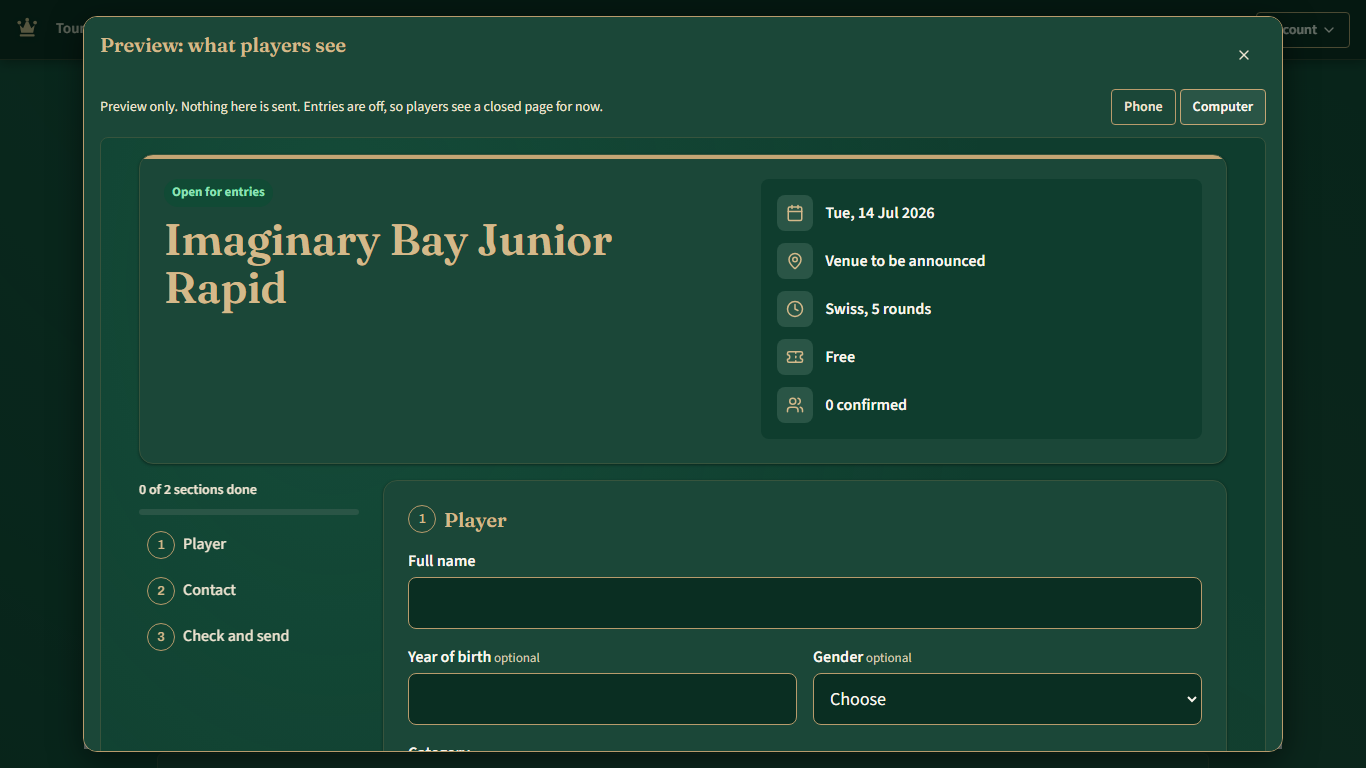
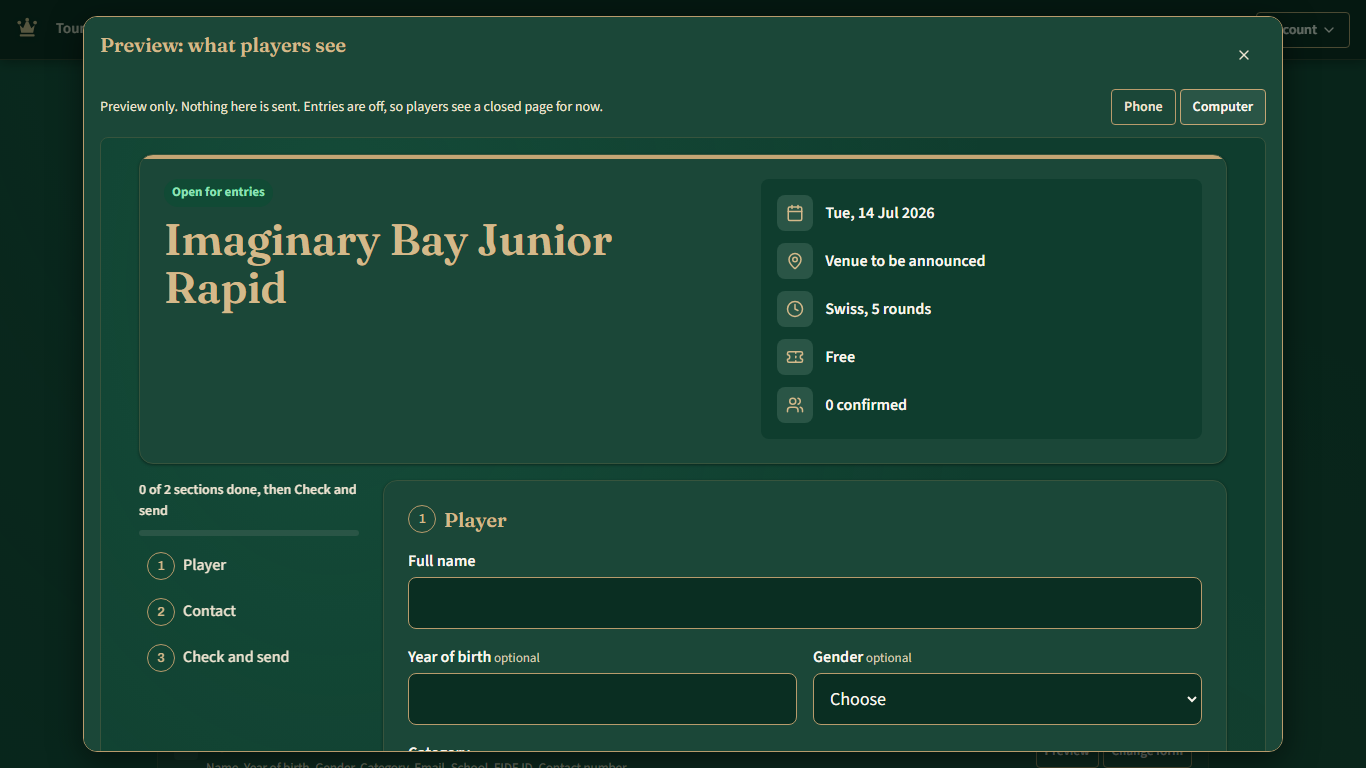
Registration: receipt hint matches who can send it later; progress names Check and send
Guests are told they can give the receipt to the organizer later; only
signed-in people are told to send it from their account. The progress line
now reads "0 of 3 sections done, then Check and send", matching the list.

diff --git a/apps/web/src/pages/registration-form/RegistrationView.tsx b/apps/web/src/pages/registration-form/RegistrationView.tsx
@@ -227,7 +227,7 @@ function Steps({ sections, prefix }: { sections: SectionInfo[]; prefix: string }
   return (
     <nav className="rg-steps" aria-label="Form sections">
       <p className="rg-steps__count">
-        {done} of {sections.length} sections done
+        {done} of {sections.length} sections done, then Check and send
       </p>
       <span className="rg-meter rg-steps__bar" aria-hidden="true">
         <span style={{ width: `${Math.round((done / sections.length) * 100)}%` }} />
@@ -275,6 +275,8 @@ export interface RegistrationFormProps {
   /** Shown above the button instead of sending, in the organizer's preview. */
   previewNote?: ReactNode;
   idPrefix: string;
+  /** Only an account can send a receipt later, so only it is told so. */
+  signedIn?: boolean;
   /** Below the form, in the same column: the roster on the public page. */
   after?: ReactNode;
 }
@@ -337,7 +339,11 @@ export function RegistrationForm(props: RegistrationFormProps) {
                   <FileDrop
                     label={<span className="rg-pay__title">Attach the payment receipt</span>}
                     required={false}
-                    hint="Screenshot or PDF, up to 5 MB. You can also send it later from your account."
+                    hint={
+                    props.signedIn
+                      ? 'Screenshot or PDF, up to 5 MB. You can also send it later from your account.'
+                      : 'Screenshot or PDF, up to 5 MB. You can also give it to the organizer later.'
+                  }
                     file={files.receipt}
                     onFile={(file) => props.onFile('receipt', file)}
                   />

diff --git a/apps/web/src/pages/registration-form/registrationForm.test.tsx b/apps/web/src/pages/registration-form/registrationForm.test.tsx
@@ -392,6 +392,9 @@ describe('the public registration page', () => {
     expect(html).toContain('receipt.png');
     expect(html).toContain('By submitting, you confirm');
     expect(html).toContain('Submit entry');
+    expect(html).toContain('You can also give it to the organizer later.');
+    expect(html).not.toContain('from your account');
+    expect(html).toContain('2 of 5 sections done, then Check and send');
   });
 
   it('turns the button into a waitlist when the roster is full', () => {

diff --git a/apps/web/src/pages/EventRegistrationPage.tsx b/apps/web/src/pages/EventRegistrationPage.tsx
@@ -407,6 +407,7 @@ export default function EventRegistrationPage() {
                   full={state === 'full'}
                   lead={lead}
                   idPrefix="rg"
+                  signedIn={Boolean(auth.user)}
                   after={roster}
                 />
               )}
